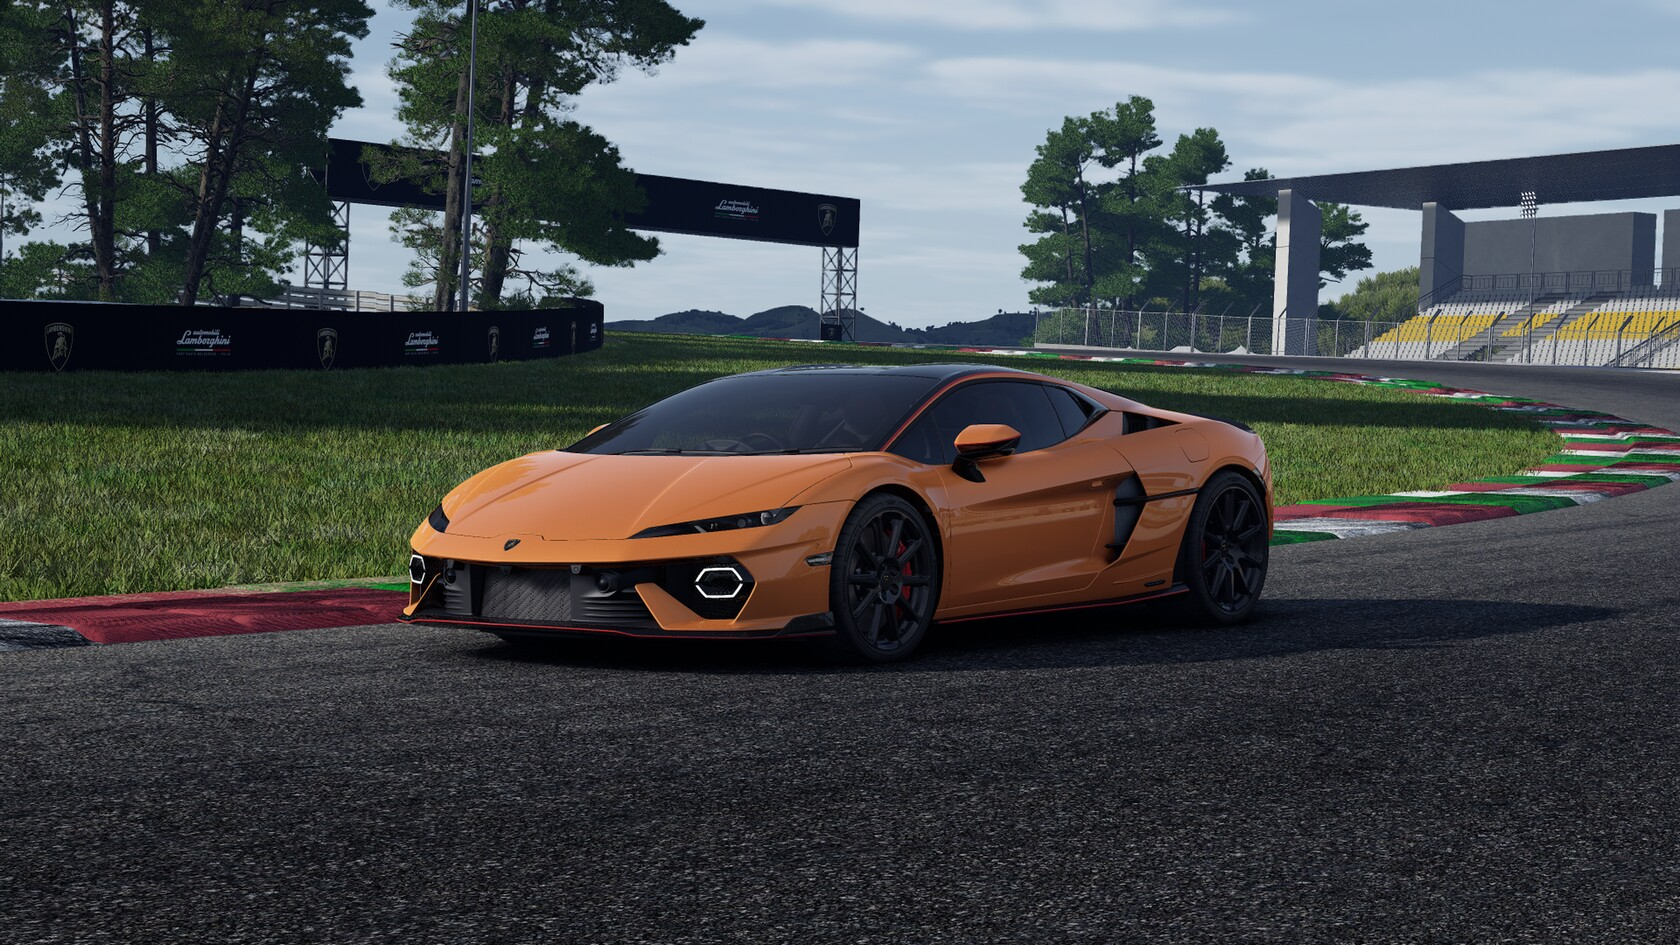
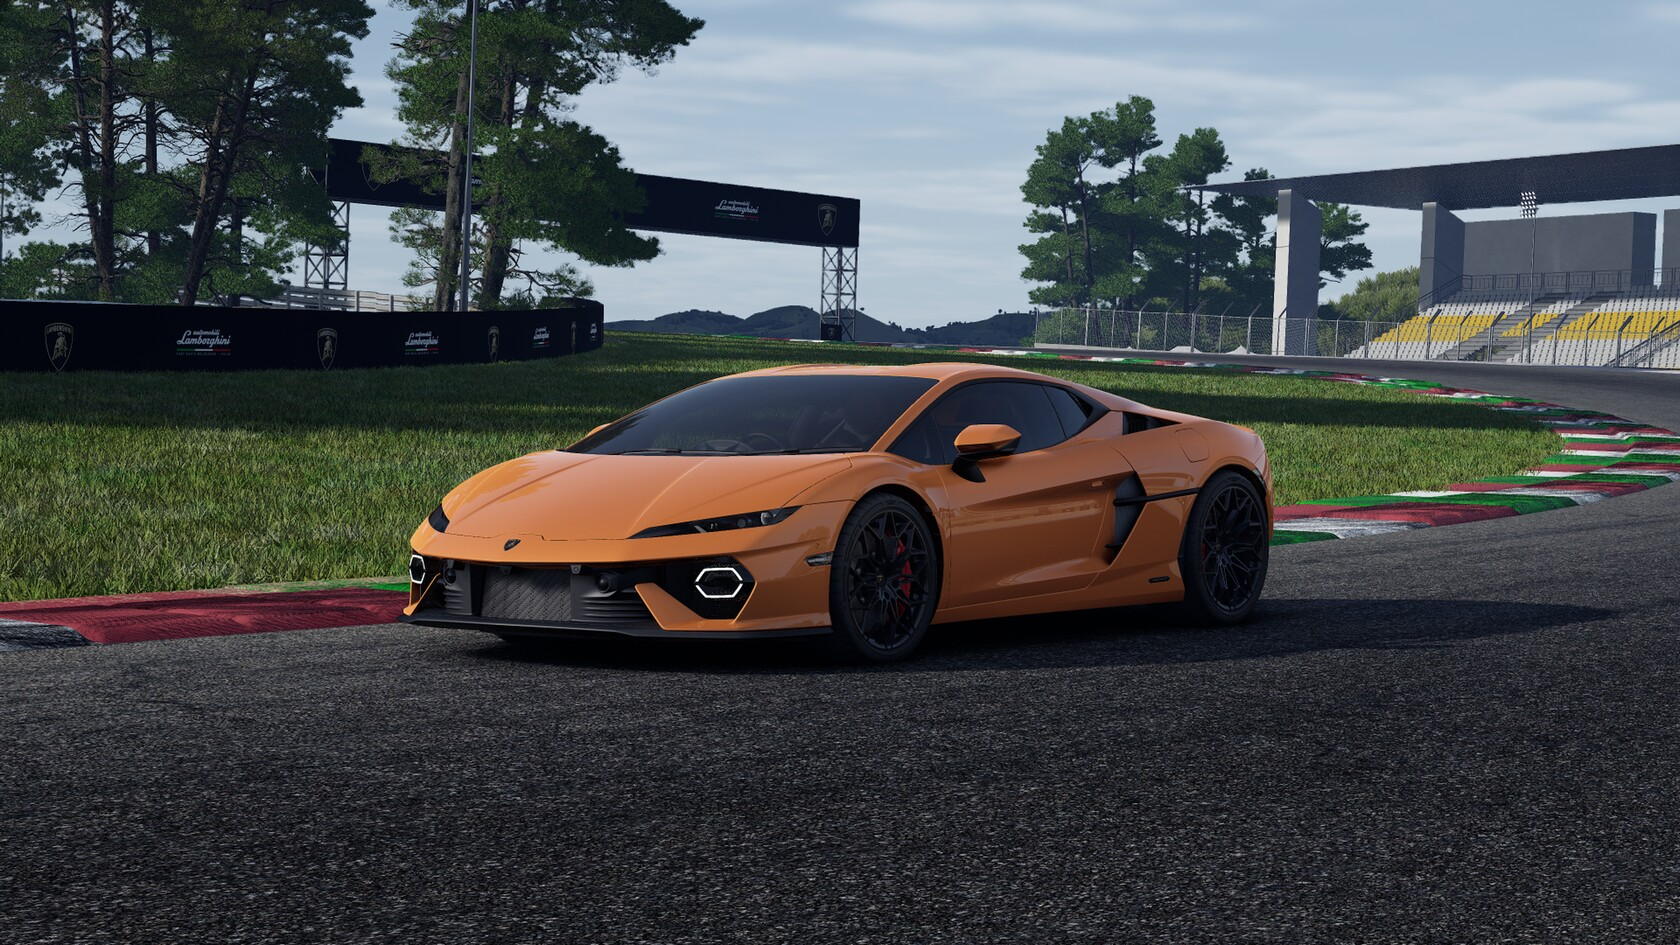
done changes on wheel

diff --git a/components/Persona.jsx b/components/Persona.jsx
@@ -68,7 +68,7 @@ function Persona({
         and customize their ideal vehicle.
       </p>
       {/* Exterior Colors Section */}
-      <div className="mb-4 rounded-lg p-4 bg-gray-50 shadow-md ">
+      <div className="rounded-lg p-4 bg-gray-50 shadow-md ">
         <h4 className="font-semibold text-lg border-4 border-inset border-black rounded-lg text-center mb-3">
           Exterior Palette
         </h4>
@@ -109,7 +109,6 @@ function Persona({
           ))}
         </div>
       </div>
-
       {/* Interior Options Section */}
       <div className="rounded-lg p-4 bg-gray-50 shadow-md">
         <h4 className="font-semibold text-lg text-center mb-3 border-4 border-inset border-black rounded-lg">

diff --git a/components/Main.jsx b/components/Main.jsx
@@ -3,7 +3,7 @@ import configs from "@/app/configs.json";
 
 function Main({ color = "red", wheel = "carbon", interiortheme = "sabbia" }) {
   return (
-    <div className="ml-6 ">
+    <div className="md:ml-6">
       <img
         src={`${configs[color].wheels[wheel]}`}
         alt={`${color}`}
